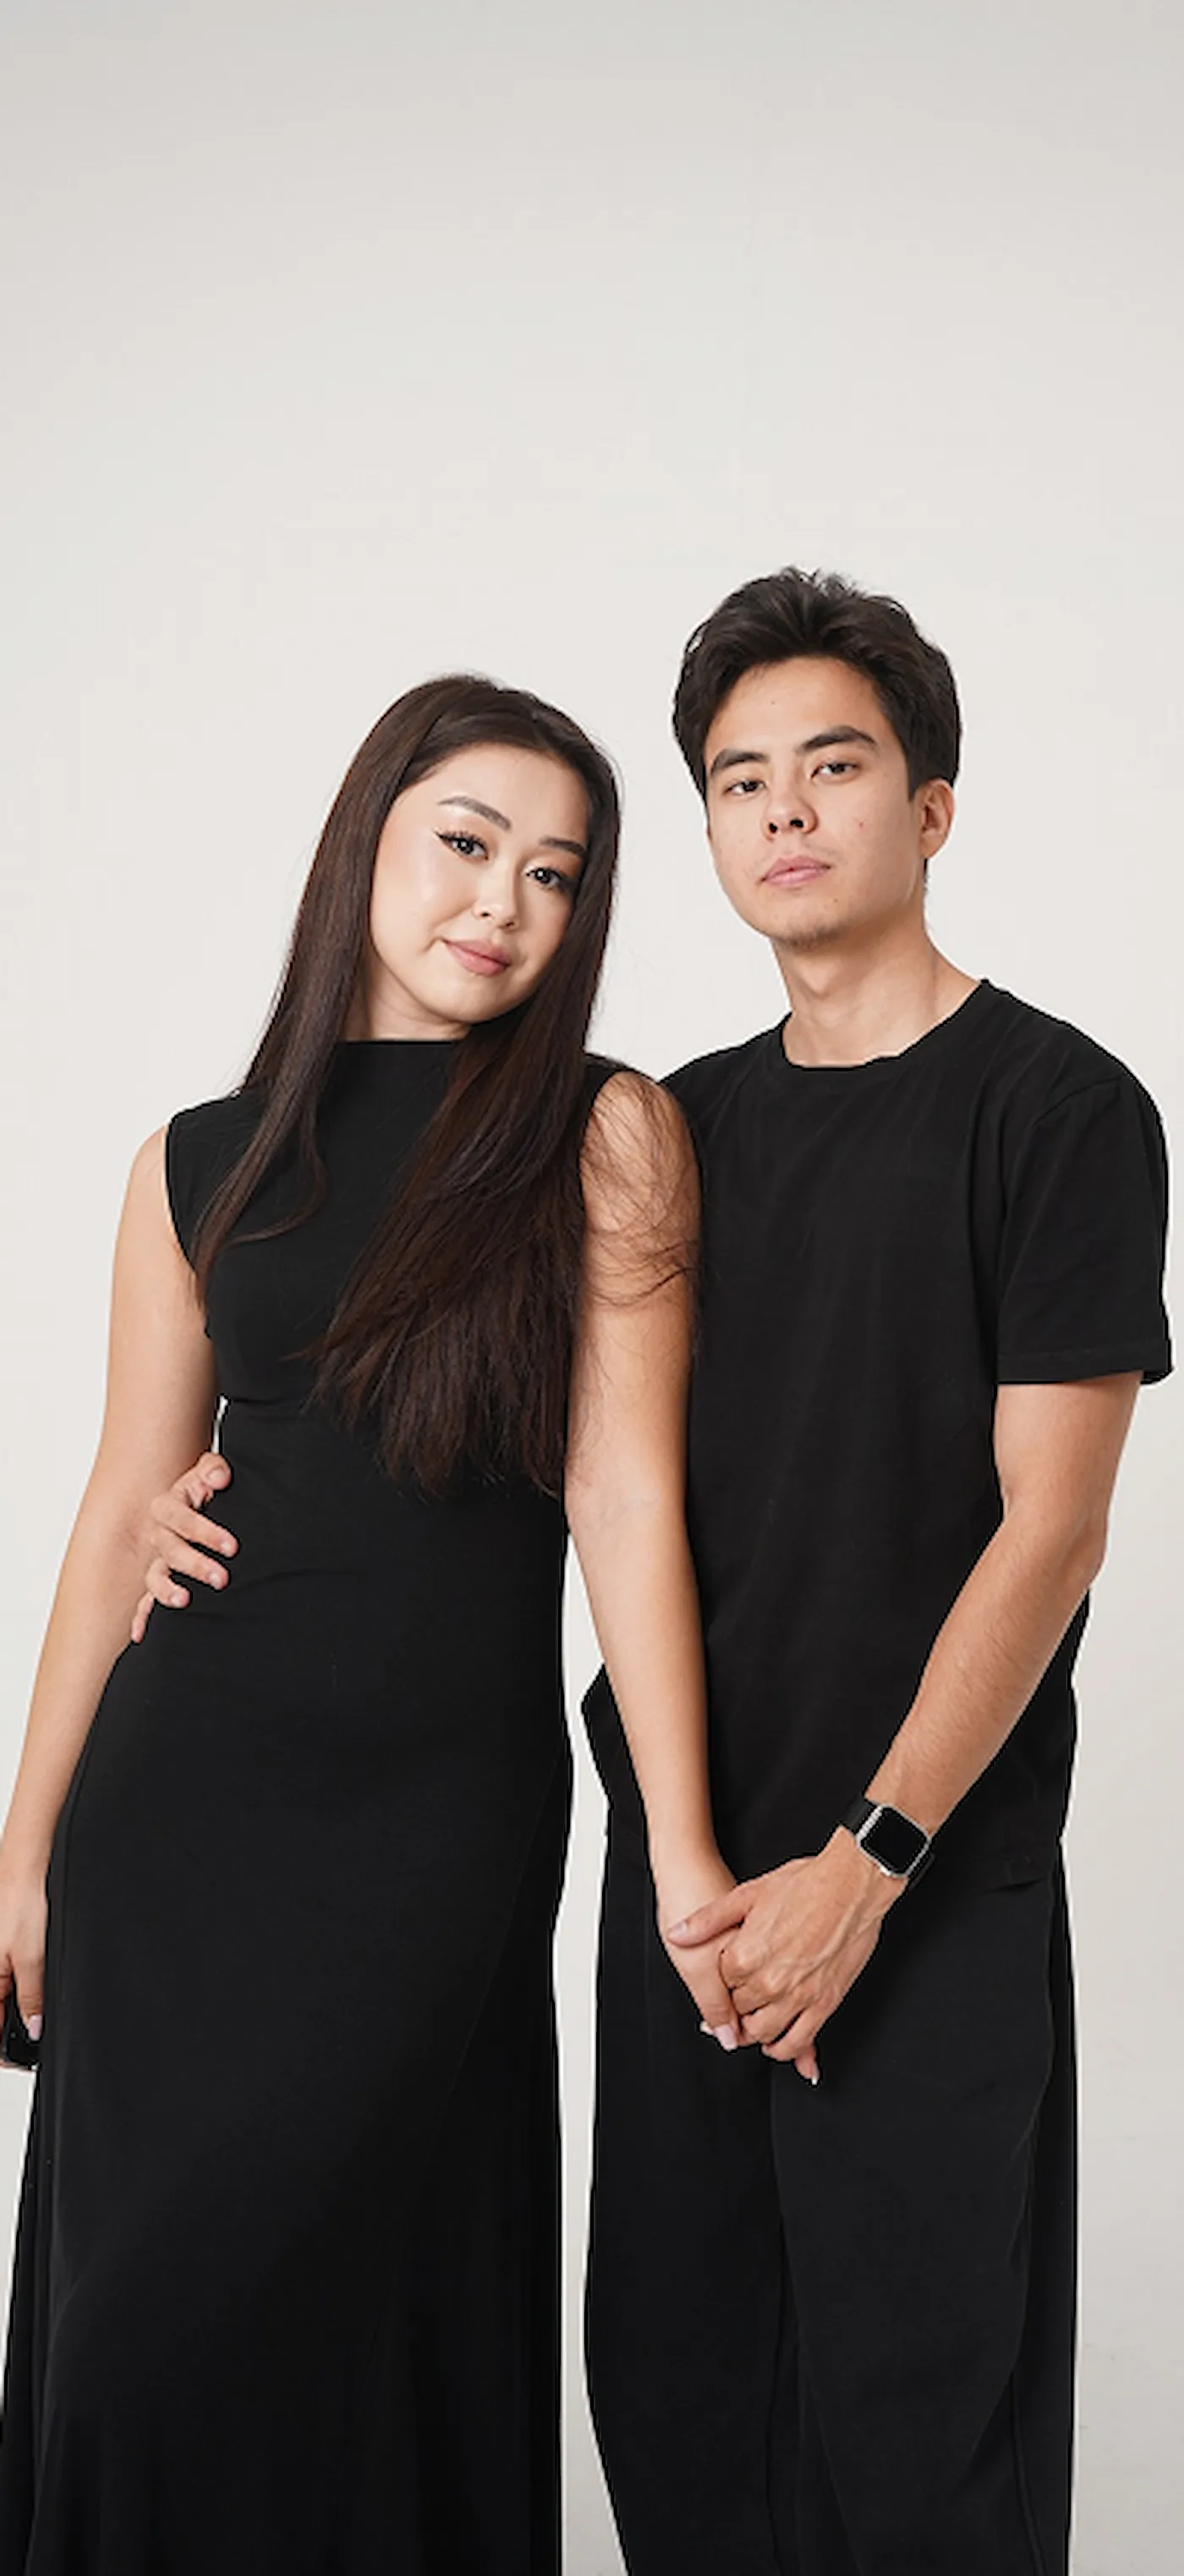
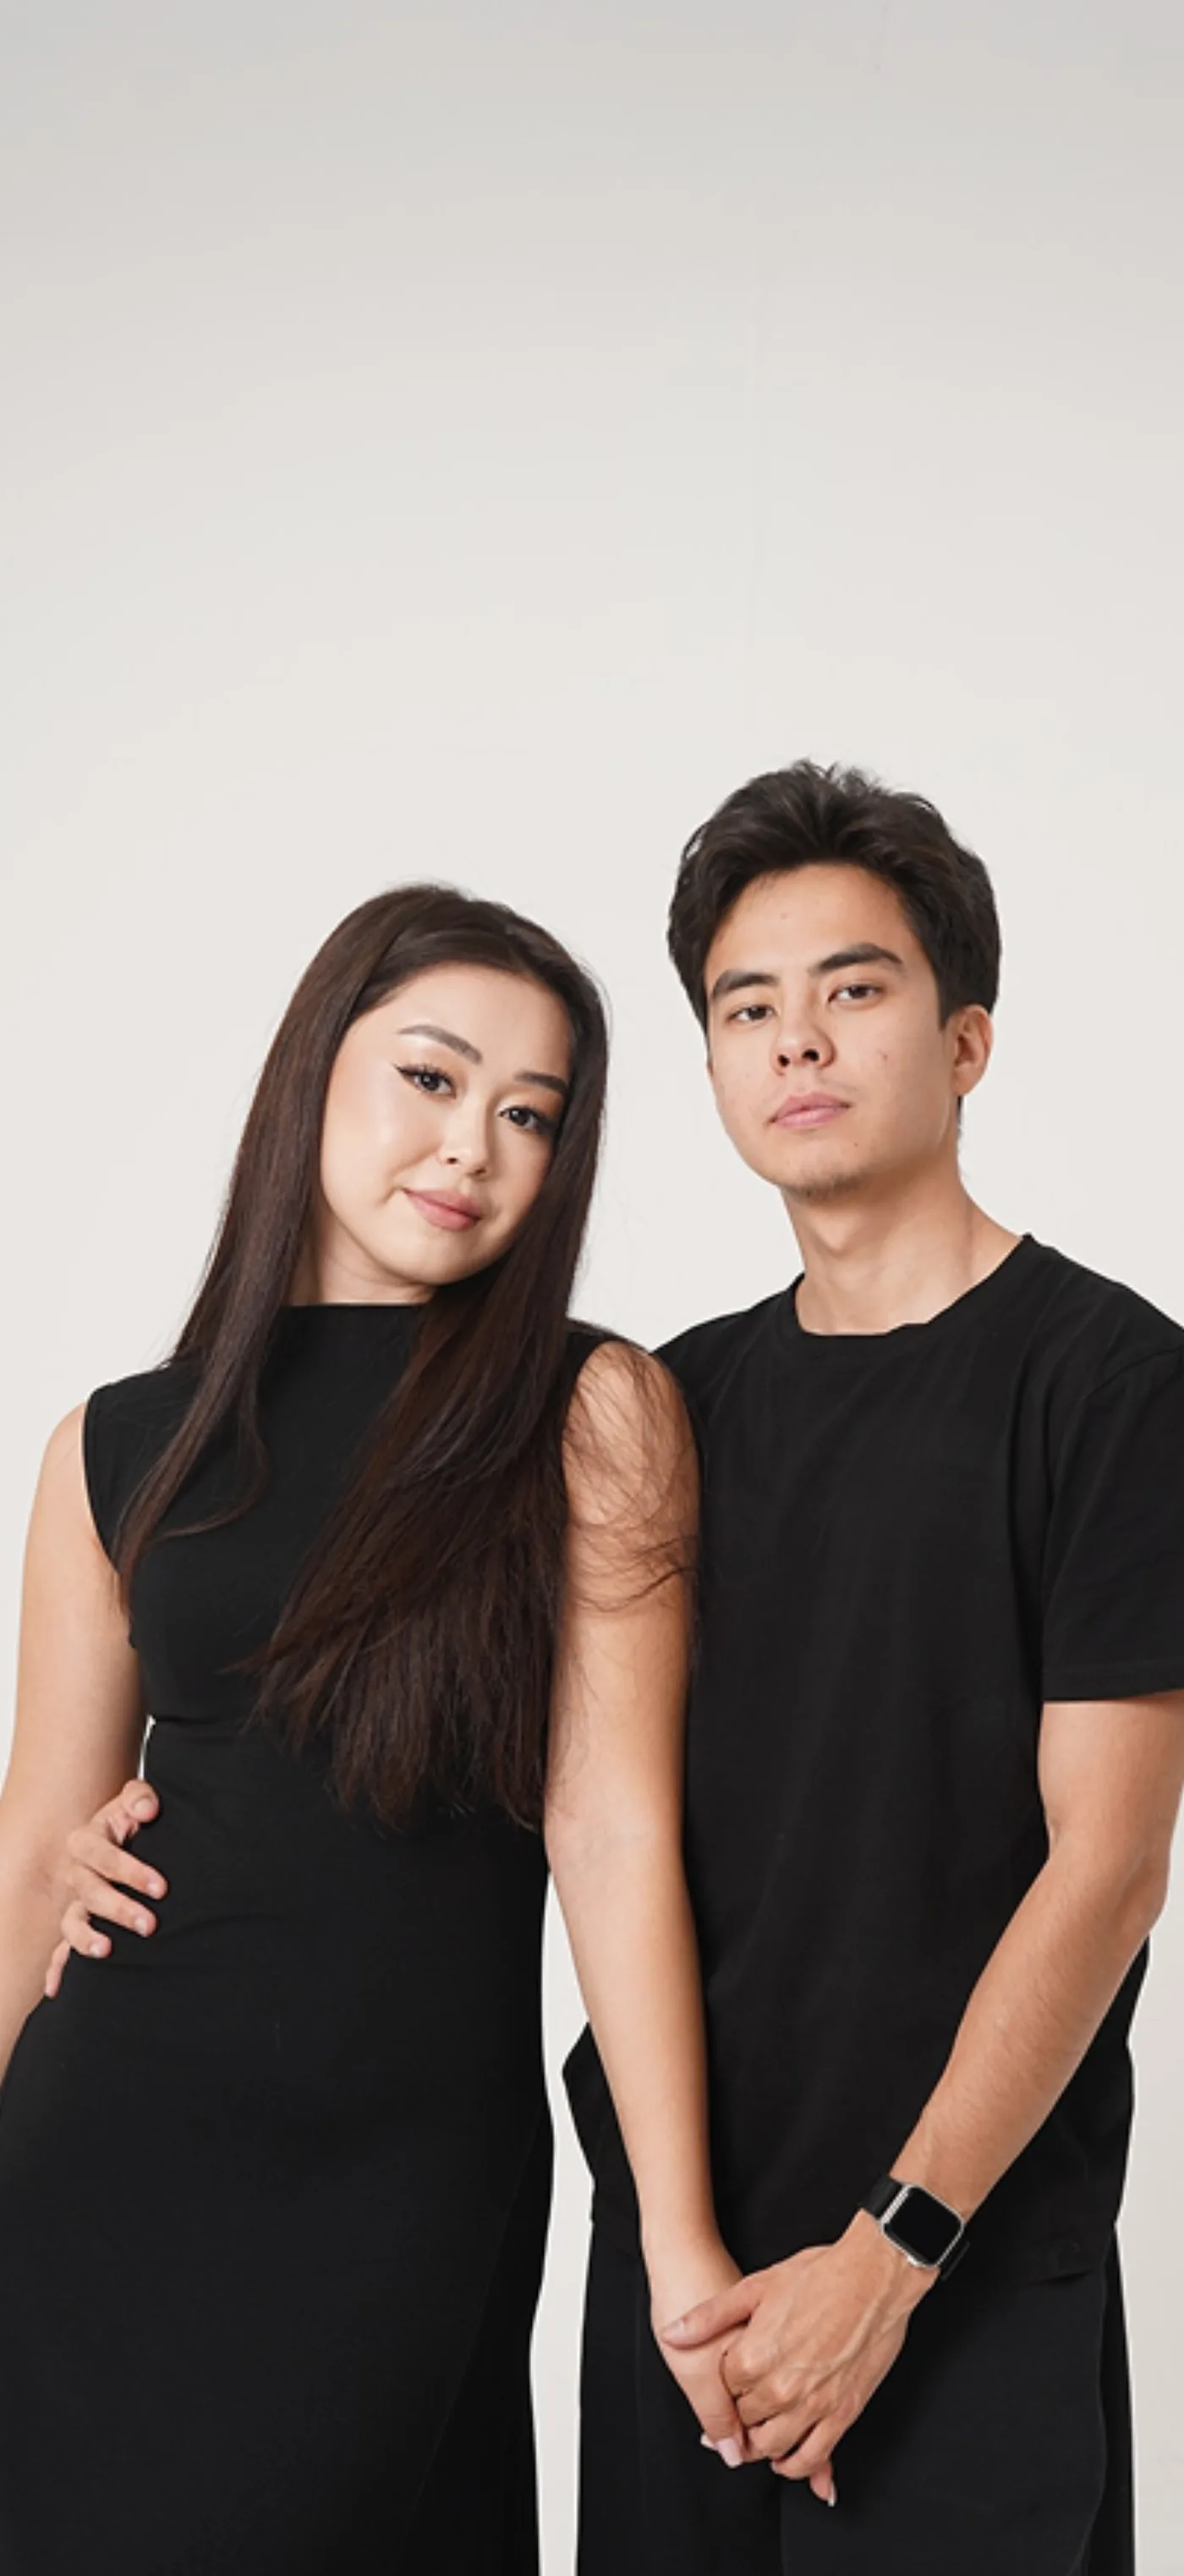
Hero: new couple photo + reset object-position to center
New hero.webp (77 KB, q=82, max 1400px) replaces the old shot.
object-position 36% center → center, since the new photo has the
couple roughly in the centre of the frame instead of left-aligned.

diff --git a/styles.css b/styles.css
@@ -281,7 +281,7 @@ body.is-locked .content { opacity: 0; }
   width: 100%;
   height: 100%;
   object-fit: cover;
-  object-position: 36% center;
+  object-position: center;
 }
 /* плейсхолдер на случай отсутствия фото */
 .hero__photo::after {
